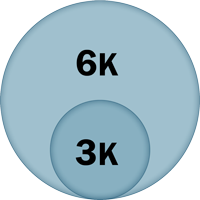
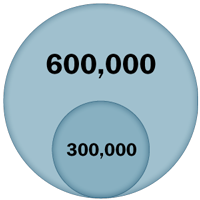
french and popup fixes

diff --git a/chad-refugees/index.html b/chad-refugees/index.html
@@ -42,18 +42,21 @@
         <div class="legend-header">
             <h2>Légende</h2>
         </div>
-            <div class="flex-container">
-                <p><i style="background-color: #6399ae; border: solid 0.5px #fff;"></i>Nombre total de réfugiés</p>
-                <div id="morebox"><a href="#infobox" id="infoLink" class="info-icon"><em>i</em></a><span
-                        id="more-info-text">Plus d’informations</span></div>
-            </div>
+        <div class="flex-container">
+            <p><i style="background-color: #6399ae; border: solid 0.5px #fff;"></i>Nombre total de réfugiés</p>
+            <div id="morebox"><a href="#infobox" id="infoLink" class="info-icon"><em>i</em></a><span
+                    id="more-info-text">Plus d’informations</span></div>
+        </div>
         <hr />
-        <p>Lisez notre briefing complet sur l'impact de la guerre au Soudan dans l'est du Tchad <a id="reportlink" href=""
-                target="_blank">ici</a>.</p>
+        <p>Lisez notre briefing complet sur l'impact de la guerre au Soudan dans l'est du Tchad <a id="reportlink"
+                href="" target="_blank">ici</a>.</p>
         <div id="myModal" class="modal">
             <div class="modal-content">
                 <span class="close">&times;</span>
-                <p>La province du Ouaddaï, frontalière du Darfour, est devenue l’épicentre de la crise. Cette région semi-aride d’environ un million d’habitants, où les conditions de vie étaient déjà très précaires avant-guerre, accueille plus de 70 pour cent des personnes arrivées au Tchad pour fuir le conflitsoudanais.</p>
+                <p>La province du Ouaddaï, frontalière du Darfour, est devenue l’épicentre de la crise. Cette région
+                    semi-aride d’environ un million d’habitants, où les conditions de vie étaient déjà très précaires
+                    avant-guerre, accueille plus de 70 pour cent des personnes arrivées au Tchad pour fuir le
+                    conflitsoudanais.</p>
                 <p>Avant avril 2023, le Ouaddai accueillait moins d'un million d'habitants.</p>
             </div>
         </div>
@@ -89,8 +92,11 @@
             style: 'mapbox://styles/daltonwb/cm3g2c514003r01qx0rb62v1i',
             center: [23.99507, 15.73259],
             zoom: 6,
+            scrollZoom: true,
             attributionControl: false
         });
+
+        map.scrollZoom.enable();
 
         map.addControl(new mapboxgl.AttributionControl({
             compact: true,
@@ -201,6 +207,41 @@
                     });
                 }
             });
+
+            // Create a popup but leave it empty for now
+            // Create a popup but leave it empty for now
+            let popup = new mapboxgl.Popup({
+                closeButton: false,
+                closeOnClick: false
+            });
+
+            // Add event listeners for mouse enter and leave to show the popup
+            map.on('mouseenter', 'locations-layer', function (e) {
+                // Change the cursor to a pointer
+                map.getCanvas().style.cursor = 'pointer';
+
+                // Get the feature properties for the hovered feature
+                let properties = e.features[0].properties;
+
+                // Get the coordinates of the point feature
+                let coordinates = e.features[0].geometry.coordinates;
+
+                // Multiply the cumulative value by 100 and add comma separators
+                let multipliedValue = (properties.cumulative * 100).toLocaleString();
+
+                // Set the popup content to the current date's multiplied integer value
+                popup.setLngLat(coordinates)
+                    .setHTML(`<strong>${properties.location}</strong><br><strong>Réfugiés:</strong> ${multipliedValue}`)
+                    .addTo(map);
+            });
+
+            map.on('mouseleave', 'locations-layer', function () {
+                // Reset the cursor
+                map.getCanvas().style.cursor = '';
+
+                // Remove the popup
+                popup.remove();
+            });
         });
 
         const insetMap = new mapboxgl.Map({
@@ -278,8 +319,6 @@
                 }
             });
         });
-
-        map.scrollZoom.disable();
 
     </script>
 

diff --git a/chad-refugees/style.css b/chad-refugees/style.css
@@ -207,6 +207,15 @@ input[type="range"]::-moz-range-track {
     }
 }
 
+.mapboxgl-popup-content {
+    border-radius: 10px;  /* Rounded corners */
+    border: 1px solid #00567a;  /* Stroke color */
+    background-color: rgba(255, 255, 255, 0.8);  /* 80% opaque white background */
+    padding: 10px;  /* Add some padding for better spacing */
+    font-family: 'franklin-gothic-urw', sans-serif;  /* Customize the font */
+    font-size: 16px;
+}
+
 .legend {
     background-color: rgba(255, 255, 255, 0.8);
     bottom: 40px;
@@ -217,6 +226,13 @@ input[type="range"]::-moz-range-track {
     width: 350px;
     font-family: 'franklin-gothic-urw', sans-serif;
     z-index: 1;
+}
+
+.mapboxgl-popup-tip {
+    border-width: .5px;  /* Set the stroke width to 2px */
+    border-style: solid;  /* Make sure the tip has a solid border */
+    border-color: #00567a;  /* Stroke color for the popup tip */
+    height: 12px;
 }
 
 /* @media (max-width: 1024px) {
